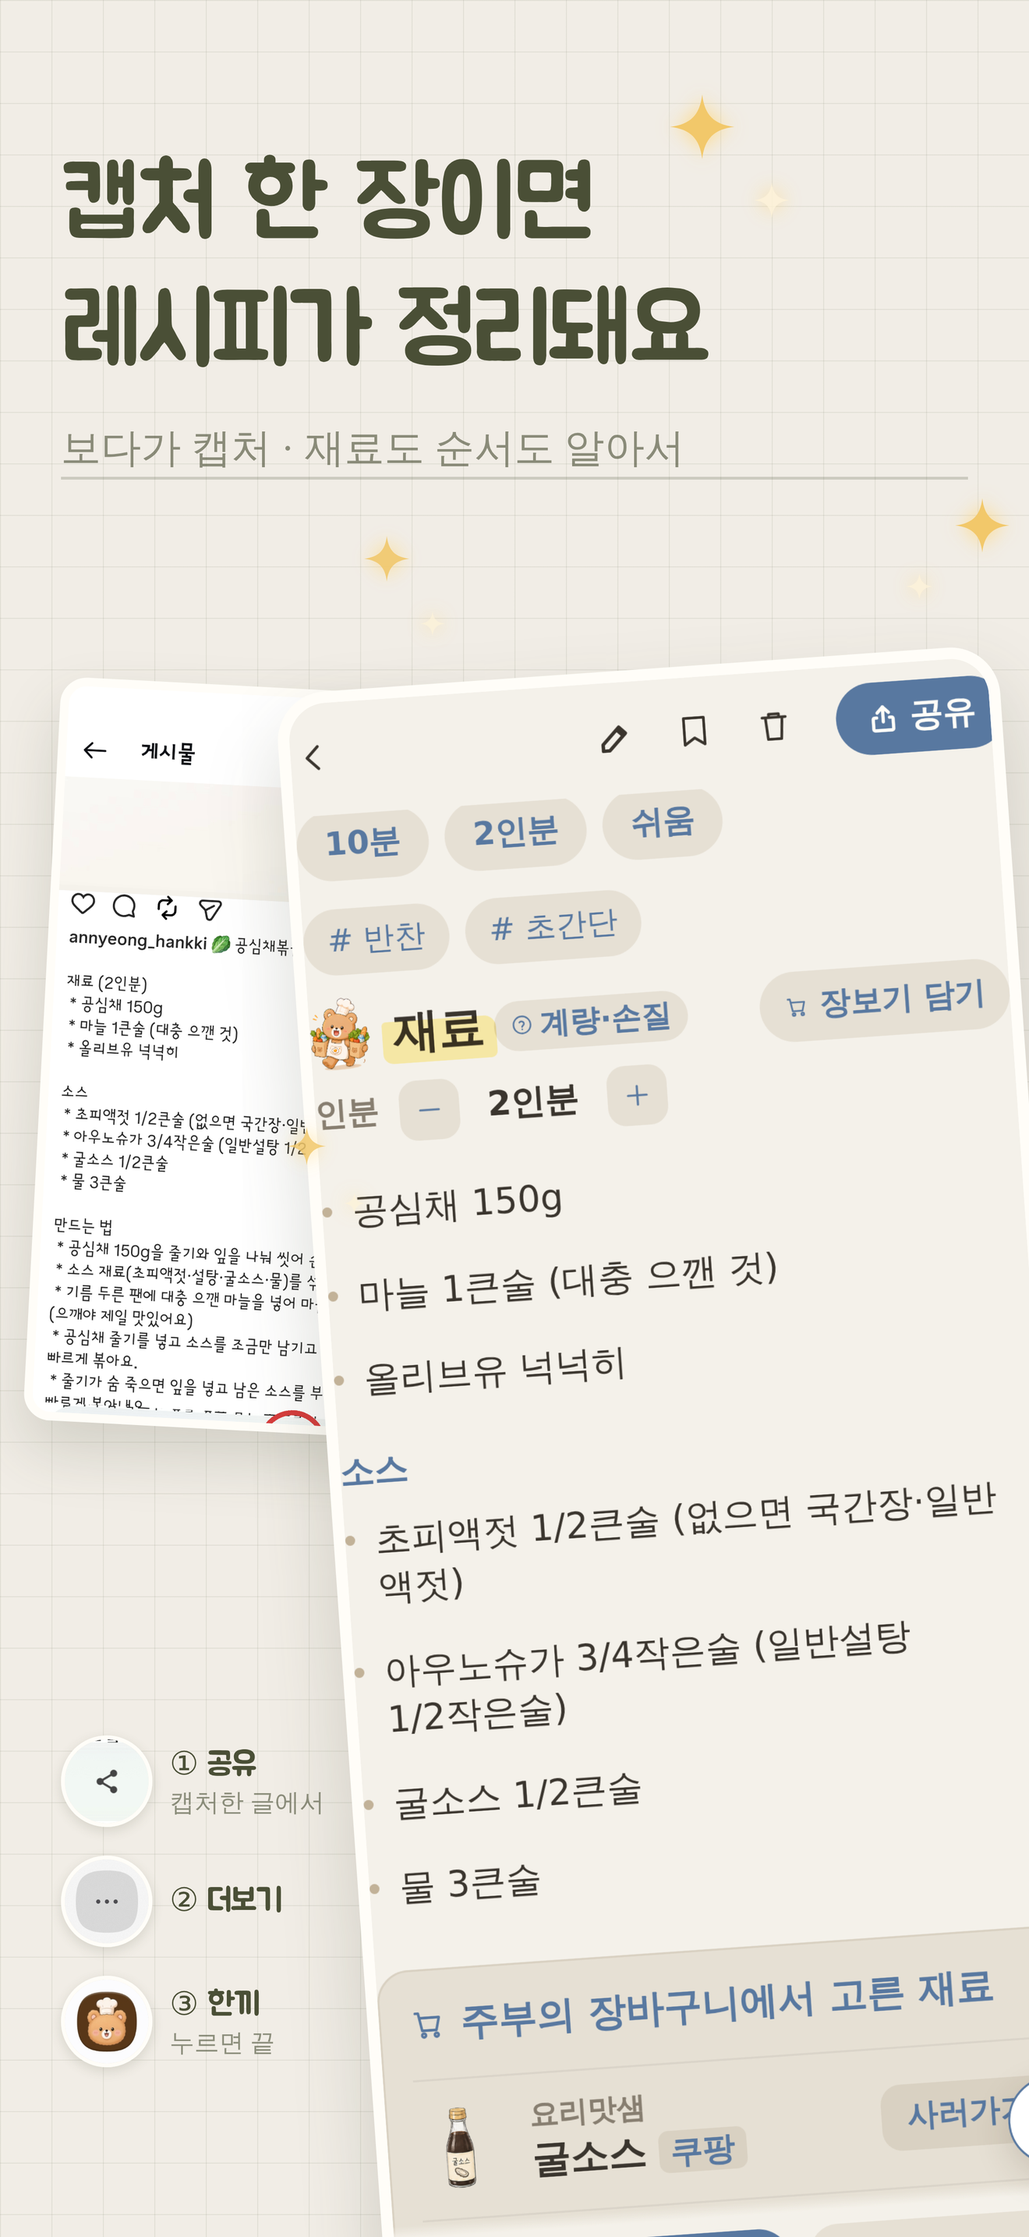
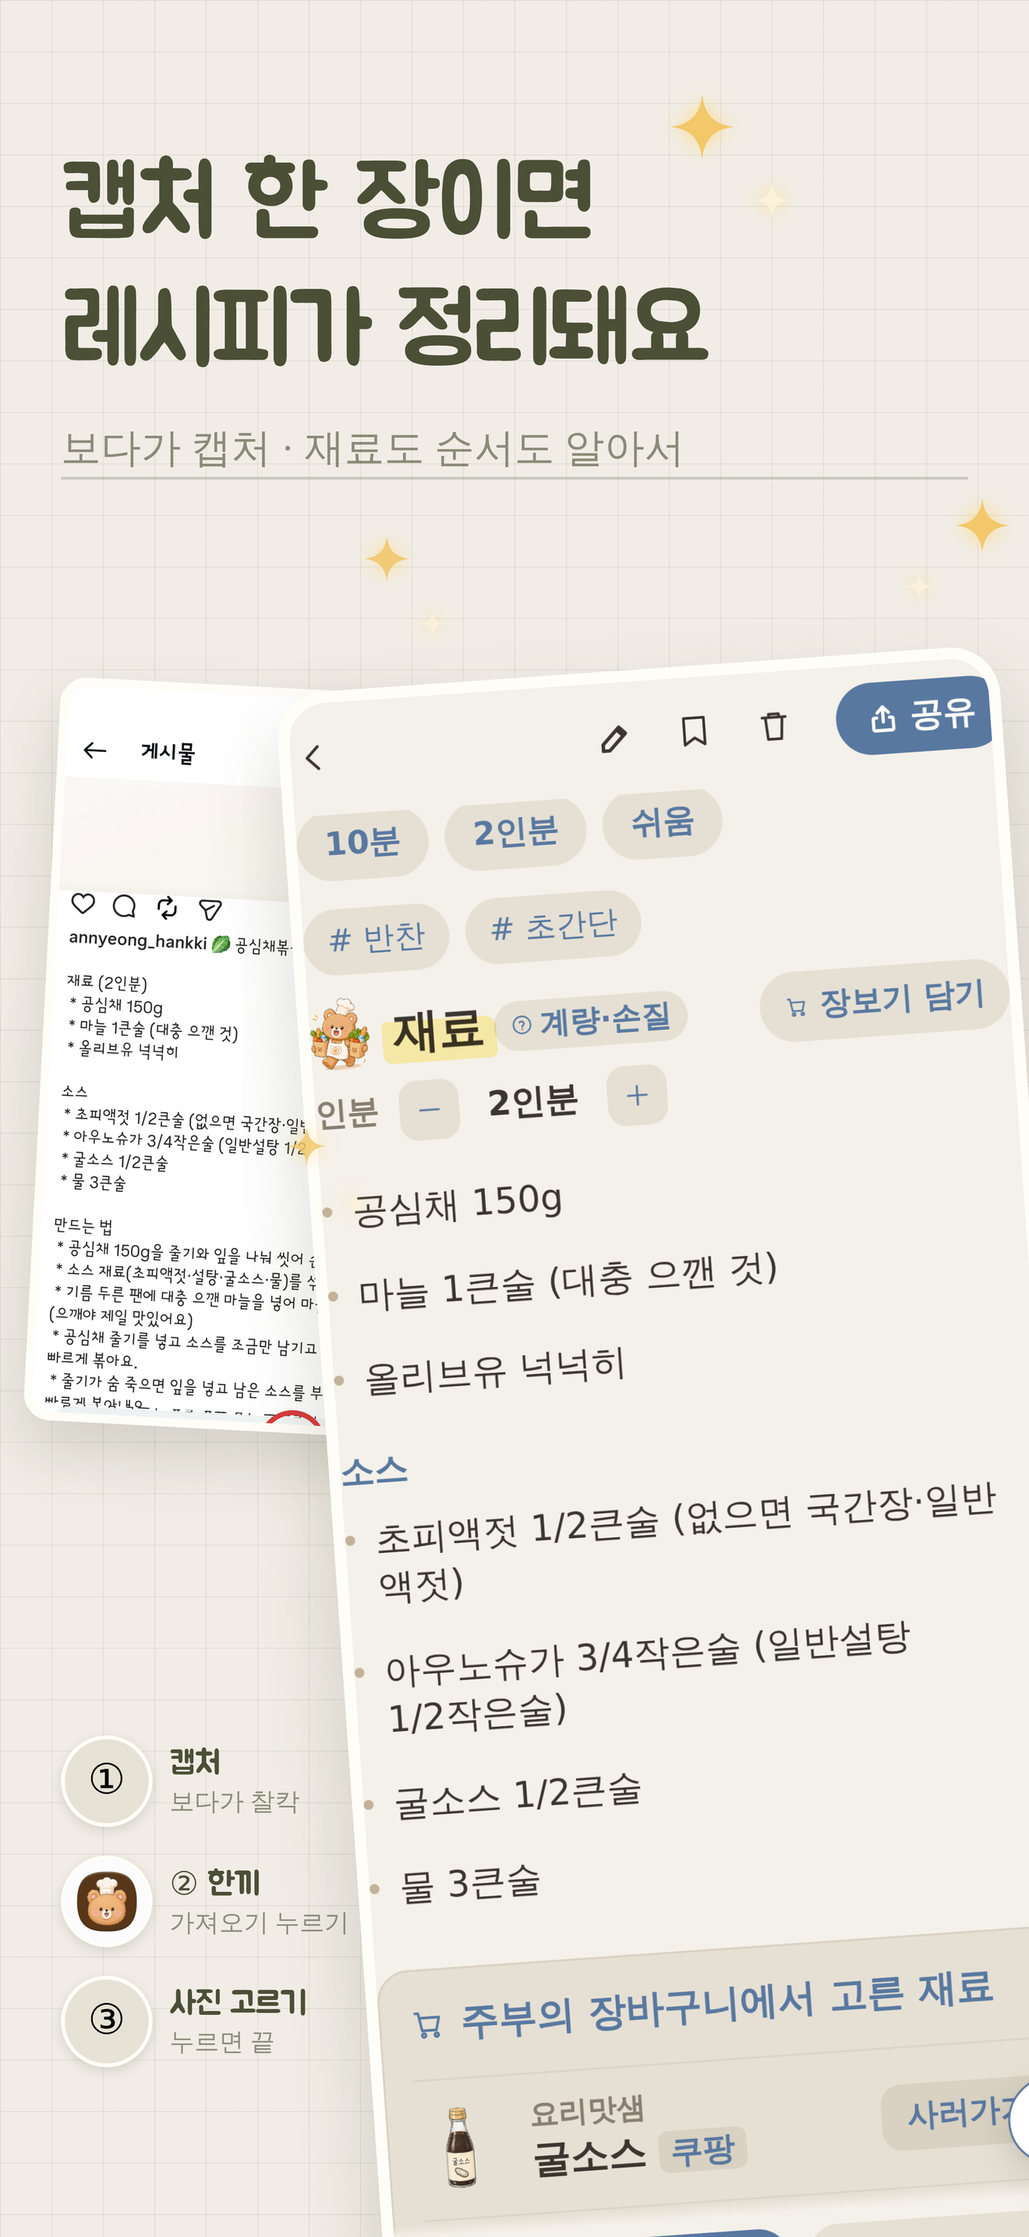
🍎 아이폰 앱에서 «없는 길·안 되는 부품»을 가르치지 않게 — 가져오기 안내 ＋ 리뷰 주소 ＋ 표지 알약 ＋ 백업 ＋ 타이머 문구 ＋ 스샷 01 (심사 제출 취소 뒤 다시 제출용)
- 잡은 것(딸 폰 실물 09-13 12:09 = 사진첩 공유 시트에 한끼 없음 → 아이폰 껍데기엔 share_target 이 없다):
  · ImportScreen: 아이폰이면 ①카드 「캡처한 사진 바로 한끼로」·②갤러리 카드 내림·안내 = 캡처 → 한끼 가져오기 → 사진 고르기 (안드로이드·웹은 그대로)
  · nudges STORE_URL: 앱이면 App Store 리뷰 쓰기 주소 · shareCover 알약: App Store
  · ProfileScreen: <a download> 가 WKWebView 에서 조용히 안 되는데 「저장했어요」라 말했다 → 앱이면 공유 창 길로 · 「최신 버전 확인」은 App Store 안내
  · TimerSheet 「소리와 진동」 → 앱이면 「소리」 · PantryView 「갤러리」 → 「사진」 · ShareDrawCard 저장 폴백·「사진으로 저장할게요」는 앱 밖에서만
  · 스토어 스샷 01(아이폰·아이패드): 「①공유 ②더보기 ③한끼」 → 「①캡처 ②한끼 ③사진 고르기」(2.3.3)
- 재현판 _repro-아이폰안내-0913(16칸) → smoke:seq · 빌드 exit 0
- ⛔ 기능을 끈 게 아니다(규칙 39) — 없는 길을 안 가르치고 되는 길로 안내. Share Extension 은 1.1 후보

Claude-Session: https://claude.ai/code/session_01BuM5tZiYweRPkjKJ6mPtVk

Changed region(s): [[0.0621, 0.7758, 0.3106, 0.931]]

diff --git a/hankki/src/screens/ImportScreen.jsx b/hankki/src/screens/ImportScreen.jsx
@@ -13,6 +13,7 @@ import { getOcrLeft, KEY_NAME, KEY_SHORT, KEY_UNIT, keyCount } from '../ocr'
 import KeyBadge from '../components/KeyBadge'
 import EarnList from '../components/EarnList'
 import { 갈래고름, 레시피저장 } from '../stats'
+import { 앱안인가 } from '../nativeAuth'   // 🍎 아이폰 앱이면 공유 시트(share_target) 길이 «없다» — 안내를 갈아 끼운다
 import Icon from '../components/Icon'
 import Portal from '../components/Portal'
 // 🐻 [2026-08-28] 잔량 띠의 캐릭터(펭펭 돋보기 · 둘이 하트)를 **뺐다** — 창업자 *"그림 박스하나 없어져"*.
@@ -113,6 +114,16 @@ const HIDDEN = [
   { key: 'youtube', icon: 'youtube', title: 'YouTube', desc: '캡처·설명 붙여넣기로 담기', color: '#E33', costText: `캡처하면 ${keyCount(1)}`, paid: true },
   { key: 'text', icon: 'edit', title: '텍스트 붙여넣기', desc: '레시피 글을 붙여넣으면 재료·순서까지 자동 정리', color: '#B0895E', costText: keyCount(0), paid: false },
   { key: 'link', icon: 'link', title: '링크 주소만 담아두기', desc: '주소만 저장해요 · 재료·순서는 안 담겨요', color: '#9B8B79', costText: keyCount(0), paid: false },
+]
+// 🍎🍎 [2026-09-13 · 심사 제출 뒤 잡음] **아이폰 앱엔 「공유 → 더보기 → 한끼」 길이 없다.**
+//    안드로이드는 웹 매니페스트 share_target 으로 공유 시트에 한끼가 뜨지만, 아이폰 껍데기엔 그 부품(Share Extension)이
+//    아직 없다(딸 폰 실물 09-13 12:09 — 사진첩 공유 시트에 한끼 없음). 그런데 ①②카드와 안내가 그 길을 «그대로» 가르쳐서
+//    심사관·유저가 따라 하면 막힌다(2.1). → 아이폰 앱이면 ①을 「캡처 → 한끼 → 사진 고르기」 안내로 바꾸고 ②(갤러리 공유)는 내린다.
+//    ⛔ 기능을 끈 게 아니다(규칙 39) — 없는 길을 «가르치지 않는» 것이고, 되는 길(사진 고르기)로 안내한다. Share Extension 은 1.1 후보.
+//    ⛔ 안드로이드·웹은 한 글자도 안 바뀐다(`앱안인가()` 는 껍데기 밖에서 항상 false).
+const OPTIONS_IOS = [
+  { ...OPTIONS[0], title: '캡처한 사진 바로 한끼로', desc: '인스타·유튜브 보다 캡처해 두면, 여기서 골라 재료까지 정리해요' },
+  ...OPTIONS.filter((o) => o.key !== 'share' && o.key !== 'gallery'),
 ]
 const ALL_FLOWS = [...OPTIONS, ...HIDDEN]
 
@@ -324,7 +335,7 @@ export default function ImportScreen() {
   //    **마침표로 끊으면** 줄이 어디서 갈려도 두 문장이 각각 읽힌다.
   const NOTE_이미지고르기 = '처음 한 번은 무엇을 보낼지 고르는 화면이 떠요. 「이미지」를 고르면 돼요.'
 
-  const 안내들 = {
+  const 안내들기본 = {
     share: {
       lead: '인스타·유튜브를 보다가 캡처하면, 그 자리에서 한끼로 보낼 수 있어요.',
       steps: [
@@ -460,6 +471,36 @@ export default function ImportScreen() {
       ],
     },
   }
+  // 🍎 아이폰 앱 = 공유 시트에 한끼가 없으니 ①②의 안내를 «되는 길»로 바꾼다(안드로이드·웹은 안내들기본 그대로).
+  const 안내들 = 앱안인가() ? {
+    ...안내들기본,
+    share: {
+      lead: '인스타·유튜브를 보다가 캡처해 두면, 한끼에서 골라 재료까지 읽어 드려요.',
+      steps: [
+        강조('인스타·유튜브를 보다가 「캡처」해요'),
+        강조('한끼로 돌아와 「가져오기」를 눌러요'),
+        강조('「사진 고르기」에서 방금 캡처를 골라요'),
+      ],
+      result: '임시보관함에 담기고, 제목·재료를 자동으로 읽어 드려요.',
+      buttons: [
+        { label: '사진 고르기', onClick: () => 갈래로('photo') },
+        { label: 'Instagram 에서 담는 다른 방법', ghost: true, onClick: () => 갈래로('instagram') },
+        { label: 'YouTube 에서 담는 다른 방법', ghost: true, onClick: () => 갈래로('youtube') },
+        { label: '링크 주소만 담아두기', ghost: true, onClick: () => 갈래로('link') },
+      ],
+    },
+    gallery: {
+      lead: '사진 보관함에 저장해 둔 레시피 사진도 여기서 고르면 돼요.',
+      steps: [
+        강조('「가져오기」를 눌러요'),
+        강조('「사진 고르기」에서 사진을 골라요'),
+      ],
+      result: '임시보관함에 담기고, 제목·재료를 자동으로 읽어 드려요.',
+      buttons: [
+        { label: '사진 고르기', onClick: () => 갈래로('photo') },
+      ],
+    },
+  } : 안내들기본
 
   return (
     /* 📏 `imp` = 가져오기 화면 «전용» 표식 — 상자 안 줄간을 한 값으로 묶는 데 쓴다(styles.css).
@@ -512,7 +553,7 @@ export default function ImportScreen() {
               ⛔ 값(열쇠 몇 개)은 여전히 «고르는 그 줄»에 붙는다 — 창업자가 결제에서 정한 원칙과 같다:
                  *"구매 탭은 안 만든다 — 「쓰려는 순간」 그 자리에서"*. 알리는 것도 같은 자리다. */}
           <div className="imp-opts">
-            {OPTIONS.map((o, i) => (
+            {(앱안인가() ? OPTIONS_IOS : OPTIONS).map((o, i) => (
               <button
                 key={o.key}
                 className={`imp-opt press${i === 0 ? ' is-top' : ''}`}

diff --git a/hankki/src/screens/ProfileScreen.jsx b/hankki/src/screens/ProfileScreen.jsx
@@ -50,6 +50,7 @@ import { FAV_NAME } from '../favName'
 // 🏷 갈래 이름도 «한 곳»에서만 온다(`src/settingsGroups.js`) — 화면과 관문이 같은 목록을 본다.
 //    ⛔ 여기에 갈래 이름을 «다시 적지» 말 것. 2026-09-04 에 화면과 관문이 각각 적어서 실제로 갈렸다.
 import { 설정갈래, 설정섹션, 설정이름표스타일 } from '../settingsGroups'
+import { 앱안인가 } from '../nativeAuth'   // 🍎 아이폰 앱 = 파일 다운로드(<a download>)가 조용히 안 된다 · 서비스워커 갱신도 없다(2026-09-13 전수점검)
 import { AI동의상태, AI동의쓰기, 바뀜이벤트 } from '../aiConsent'   // 🤖🔐 AI 다듬기 사용 켜기/끄기(큰 틀 6-② ⓑ)
 
 export default function ProfileScreen() {
@@ -95,6 +96,7 @@ export default function ProfileScreen() {
   // 바로 활성화 → controllerchange 로 앱이 자동 새로고침(main.jsx). 없으면 '최신' 안내만.
   const checkUpdate = async () => {
     if (checking) return
+    if (앱안인가()) { nav.showToast('아이폰 앱은 App Store 에서 업데이트돼요 · 지금 판이 최신이에요'); return }   // 🍎 번들이 앱 안에 실려 있어 서비스워커 갱신이 없다
     if (!('serviceWorker' in navigator)) {
       nav.showToast('이 환경에선 업데이트 확인이 안 돼요 · 브라우저를 새로고침해 주세요')
       return
@@ -180,6 +182,9 @@ export default function ProfileScreen() {
 
   // 다운로드 폴더로 저장 (데스크톱·폴백)
   const downloadBackup = async () => {
+    // 🍎 [2026-09-13] 아이폰 껍데기(WKWebView)는 <a download> 를 «조용히» 무시한다 — 그런데 아래가 「저장했어요」라고 말했다.
+    //    실패를 성공이라 말하지 않는다 → 앱 안에선 공유 창 길로 안내한다(백업 «됐다» 표시도 안 남긴다).
+    if (앱안인가()) { nav.showToast('이 폰에선 「백업 보내서 저장하기」로 공유 창에 보내 주세요 (파일에 저장 · 카톡 나에게)'); return }
     // ⛔ await 를 빼면 `JSON.stringify(Promise)` 가 `{}` 로 굳어 **백업이 통째로 빈다.**
     const blob = new Blob([JSON.stringify(await buildBackup())], { type: 'application/json' })
     const url = URL.createObjectURL(blob)
@@ -917,12 +922,15 @@ export default function ProfileScreen() {
                      순서만 바꾸고, 코드 복사엔 「길다」를 미리 적어 놀라지 않게 한다. */}
               <div style={{ background: 'var(--cream)', borderRadius: 12, padding: '12px 13px', marginBottom: 14, fontSize: 15.5, lineHeight: 1.7, color: 'var(--text)', whiteSpace: 'pre-line' }}>
                 <b style={{ color: 'var(--brown)' }}>제일 쉬운 방법 (2단계)</b>{'\n'}
-                <b>1.</b> 아래 <b>폰에 파일로 저장</b> 누르기{'\n'}
-                <b>2.</b> 끝! <b>다운로드 폴더</b>에 파일 하나가 생겨요
+                {앱안인가()
+                  ? <><b>1.</b> 아래 <b>백업 보내서 저장하기</b> 누르기{'\n'}<b>2.</b> 공유 창에서 <b>「파일에 저장」</b> 또는 카톡 <b>「나에게」</b></>
+                  : <><b>1.</b> 아래 <b>폰에 파일로 저장</b> 누르기{'\n'}<b>2.</b> 끝! <b>다운로드 폴더</b>에 파일 하나가 생겨요</>}
               </div>
-              <button className="btn-primary press" onClick={downloadBackup}>폰에 파일로 저장 (추천)</button>
+              {앱안인가()
+                ? <button className="btn-primary press" onClick={shareBackup}>백업 보내서 저장하기 (추천)</button>
+                : <button className="btn-primary press" onClick={downloadBackup}>폰에 파일로 저장 (추천)</button>}
               <div className="t-sub" style={{ fontSize: 15, lineHeight: 1.55, margin: '8px 2px 12px', whiteSpace: 'pre-line' }}>
-                파일 앱 → <b>다운로드</b> 에 <b>한끼백업-날짜.json</b> 이 생겨요.{'\n'}폰이 고장나도 남게 하려면 그 파일을 <b>드라이브·카톡 「나에게」</b>에 한 번 더 올려두면 제일 안전해요.
+                {앱안인가() ? <>공유 창에서 <b>「파일에 저장」</b>을 고르면 파일 앱에 <b>한끼백업-날짜.json</b> 으로 남아요.{'\n'}</> : <>파일 앱 → <b>다운로드</b> 에 <b>한끼백업-날짜.json</b> 이 생겨요.{'\n'}</>}폰이 고장나도 남게 하려면 그 파일을 <b>드라이브·카톡 「나에게」</b>에 한 번 더 올려두면 제일 안전해요.
               </div>
               <button className="btn-ghost press" style={{ width: '100%' }} onClick={shareBackup}>백업 보내서 저장하기 <span style={{ fontWeight: 500, opacity: 0.8 }}>· 공유 창으로</span></button>
               {/* ⚠ 저장한 게 많으면 복사가 «안 되는» 폰이 있다(창업자 폰 247KB 에서 실패).

diff --git a/hankki/src/components/ShareDrawCard.jsx b/hankki/src/components/ShareDrawCard.jsx
@@ -1340,6 +1340,7 @@ export default function ShareDrawCard({ recipe, onClose, onSaveCover, onShared }
       const t = go(pre)
       if (t) { try { await t; return } catch (e) { if (e && e.name === 'AbortError') return } }
       // 여기까지 왔으면 이 폰은 파일 공유를 못 한다 → 저장으로
+      if (앱안인가()) { setBusy('공유 창을 못 열었어요 · 잠시 뒤 다시 눌러 주세요'); setTimeout(() => setBusy(null), 2400); return }   // 🍎 아이폰 앱은 <a download> 가 안 된다 — 「저장했어요」라고 거짓말하지 않는다
       pre.forEach((f, i) => setTimeout(() => saveFile(f), i * 400))
       setBusy('공유가 안 되는 폰이라 사진으로 저장했어요')
       setTimeout(() => setBusy(null), 2400)
@@ -1440,11 +1441,11 @@ export default function ShareDrawCard({ recipe, onClose, onSaveCover, onShared }
             style={{ marginTop: 4, display: 'flex', alignItems: 'center', gap: 8, padding: '15px 34px', borderRadius: 999, background: '#fffdf8', color: '#5d3410', fontWeight: 800, fontSize: 16, border: 'none' }}>
             <Icon name="share" size={18} stroke={2.2} />지금 보내기
           </button>
-          <button className="press"
+          {!앱안인가() && <button className="press"
             onClick={() => { ready.forEach((f, i) => setTimeout(() => saveFile(f), i * 400)); setReady(null) }}
             style={{ padding: '9px 18px', background: 'transparent', color: 'rgba(255,255,255,.85)', fontSize: 13.5, fontWeight: 700, border: 'none' }}>
             사진으로 저장할게요
-          </button>
+          </button>}
         </div>
       )}
       {/* 📱 [2026-08-28 ⓑ] 카드 한 장이 나갔다 → 레시피 한 장을 «따로» 보낼지 청한다.

diff --git a/hankki/src/nudges.js b/hankki/src/nudges.js
@@ -11,6 +11,7 @@
 // ⏰ 절대원칙 27 — 「오늘」은 `today.js` 한 곳에서만 만든다
 import { todayKST } from './today.js'  // ⛔ 확장자를 붙인다 — 게이트가 «노드»로 이 파일을 열 수 있다
 import { 유저눈인가 } from './tidy.js'  // 👀 [2026-09-10] 유저 눈 스위치 — 잣대는 tidy.js 한 곳
+import { 앱안인가 } from './nativeAuth.js'   // 🍎 아이폰 앱이면 리뷰 주소가 App Store 다(2026-09-13)
 
 const K_BACKUP = 'hankki:nudge:backup' // 마지막으로 닫았거나 실제로 백업한 문턱
 // 🗓 [2026-08-28] **물어본 «날짜»(YYYY-MM-DD)** 를 담는다 — 30일 뒤 한 번 더 묻기 위해.
@@ -180,7 +181,11 @@ export const 문머리글 = {
 }
 
 // 스토어 리뷰 주소 — 패키지명은 `CLAUDE.md` 고정 메모 기준.
-export const STORE_URL = 'https://play.google.com/store/apps/details?id=io.github.peachfam0307_glitch.twa'
+// 🍎 [2026-09-13] 아이폰 앱(껍데기 안)은 App Store 리뷰 쓰기 주소 — 앱 ID 6811288851(App Store Connect 실물).
+//    ⛔ 그 전엔 아이폰에서도 Play 주소를 열었다(리뷰 시트가 저절로 뜨는데 구글 페이지로 감 = 2.3.10 ＋ 안 되는 기능).
+export const STORE_URL = 앱안인가()
+  ? 'https://apps.apple.com/kr/app/id6811288851?action=write-review'
+  : 'https://play.google.com/store/apps/details?id=io.github.peachfam0307_glitch.twa'
 
 // ─────────────────────────────────────────────────────────────
 // 🎁 출시기념 팩 안내 — 꾸미기 서랍을 열면 «딱 한 번».

diff --git a/hankki/src/components/PantryView.jsx b/hankki/src/components/PantryView.jsx
@@ -17,6 +17,7 @@ import { 열쇠받기, EARN, KEY_NAME, KEY_UNIT } from '../ocr'
 // 🔑 열쇠 그림 — `KeyBadge`(가져오기·설정)가 쓰는 «바로 그 파일»이다.
 //    ⭐ 새로 만들지 않는다: 같은 것이 앱 안에서 두 모양이면 유저가 다른 것으로 읽는다.
 import uiKeyOne from '../assets/ui/key_one.png'
+import { 앱안인가 } from '../nativeAuth'   // 🍎 아이폰엔 「갤러리」가 없다 — 「사진」(2026-09-13)
 
 // 🥕 냉장고 한 줄에 붙일 그림. 창업자 제보 *"재료 하나만 담아도 큰 이미지가 생겨서 재료가 안보였어."*
 //   ⛔⛔ **이미 담아둔 재료도 같이 고쳐져야 한다**(규칙 18 ⓙ) — 담을 때 `icon` 이 굳어 저장되기 때문에
@@ -472,7 +473,7 @@ export default function PantryView() {
         }}
       >
         <Icon name="photo" size={16} color="var(--brown)" />
-        갤러리에서 영수증 고르기
+        {앱안인가() ? '사진에서 영수증 고르기' : '갤러리에서 영수증 고르기'}
       </button>
       {/* 💰💰 [2026-08-21] 여기가 «조용히 깎이던» 자리다 — 이 화면에 장수 얘기가 **한 줄도 없었다.**
           🔢 실측 = `ocrImage()`(돈 드는 AI 스캔)를 부르는 곳은 셋이고 이 화면이 그중 하나다(79줄).

diff --git a/hankki/src/shareCover.js b/hankki/src/shareCover.js
@@ -5,6 +5,7 @@
 import { toPng, toJpeg } from 'html-to-image'
 import { fontCSS, fontOptFrom } from './fontEmbed'
 import { 예열굽기 } from './coverEncode.js'   // 🍎 사파리 첫 굽기 그림 누락 대비(2026-09-13)
+import { 앱안인가 } from './nativeAuth.js'      // 🍎 아이폰 앱이면 표지 알약에 App Store(2.3.10 · 2026-09-13 심사 전 전수점검)
 
 const DISPLAY = "'Jua', 'Apple SD Gothic Neo', sans-serif" // 통통 귀여운 브랜드/제목
 const BODY = "'Gowun Dodum', 'Apple SD Gothic Neo', sans-serif" // 부드러운 본문
@@ -167,7 +168,7 @@ export async function buildCoverPayload({ coverEl, title, info = [], appUrl, rec
   ctx.fillStyle = '#a89c88'
   ctx.font = `29px ${BODY}`
   ctx.fillText('오늘도 한 끼 해냈다 🧡', W / 2, footerTop)
-  const pillLabel = '나도 꾸미러 가기  ·  Play스토어 ‘한끼’ 검색'
+  const pillLabel = 앱안인가() ? '나도 꾸미러 가기  ·  App Store ‘한끼’ 검색' : '나도 꾸미러 가기  ·  Play스토어 ‘한끼’ 검색'
   const pillW = 720
   roundRect(ctx, W / 2 - pillW / 2, footerTop + 34, pillW, 58, 29)
   ctx.fillStyle = '#5d3410'          // ⭐ 채운 알약 — 연한 판＋갈색 글자는 카드 배경에 묻혔다

diff --git a/hankki/src/components/TimerSheet.jsx b/hankki/src/components/TimerSheet.jsx
@@ -3,6 +3,7 @@ import { useTimer, SOUNDS } from '../timer'
 import Icon from './Icon'
 import Portal from './Portal'
 import { useModalBack } from '../useBackHandler'
+import { 앱안인가 } from '../nativeAuth'   // 🍎 아이폰 웹뷰엔 진동(vibrate)이 없다 — 문구를 거짓으로 두지 않는다(2026-09-13)
 
 const PRESETS = [1, 3, 5, 10, 15, 30]
 
@@ -75,7 +76,7 @@ export default function TimerSheet({ label = '요리 타이머', onClose }) {
           {/* ⭐ 「다른 화면에 있어도 울린다」를 «반드시» 말한다 — 타이머는 전역이라 실제로 그런데,
               그걸 모르면 유저가 타이머 화면에 붙들려 앉아 있는다(테스터가 그랬다). */}
           <div style={{ marginTop: 9, textAlign: 'center', fontSize: 15.8, lineHeight: 1.5, color: 'var(--brown)' }}>
-            <b style={{ fontWeight: 800 }}>소리와 진동</b>으로 알려드려요<br />
+            <b style={{ fontWeight: 800 }}>{앱안인가() ? '소리' : '소리와 진동'}</b>으로 알려드려요<br />
             <span className="t-sub" style={{ fontSize: 15.3 }}>다른 화면에 있어도 울려요</span>
           </div>
         </div>
